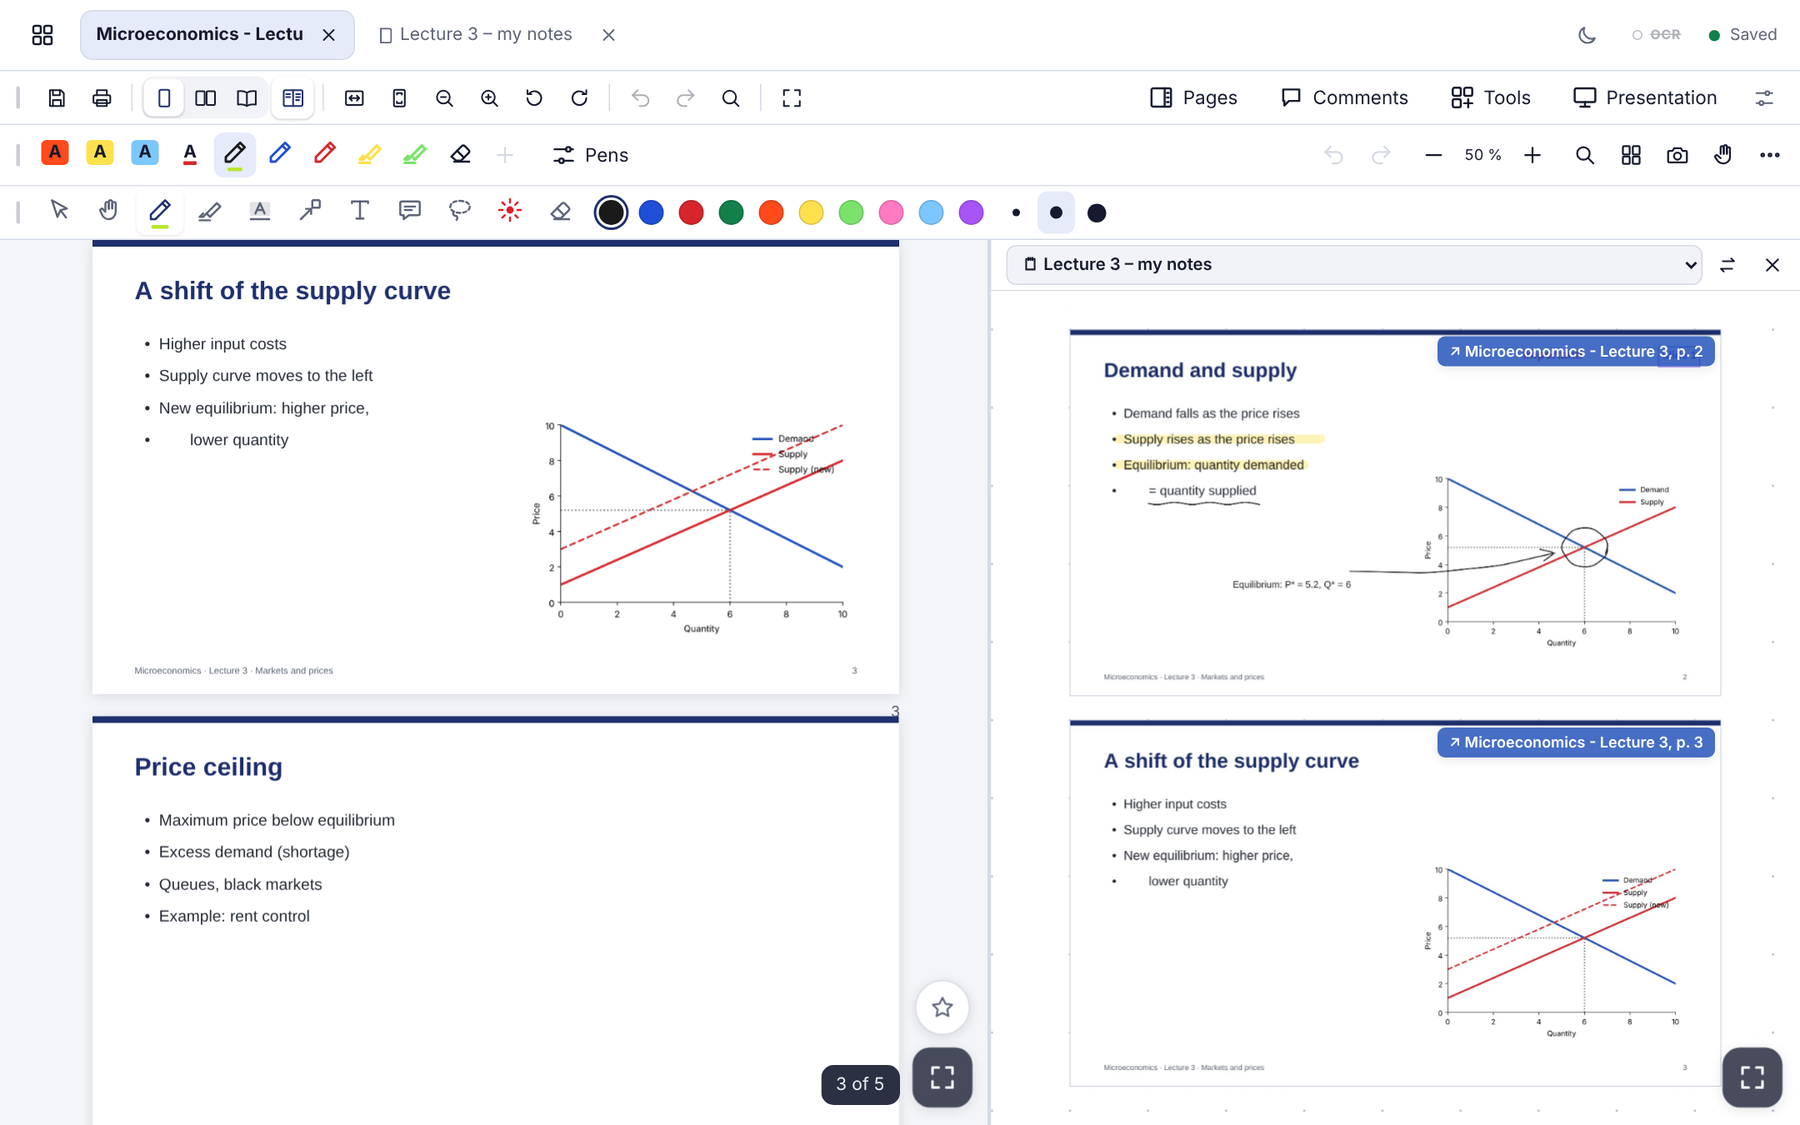
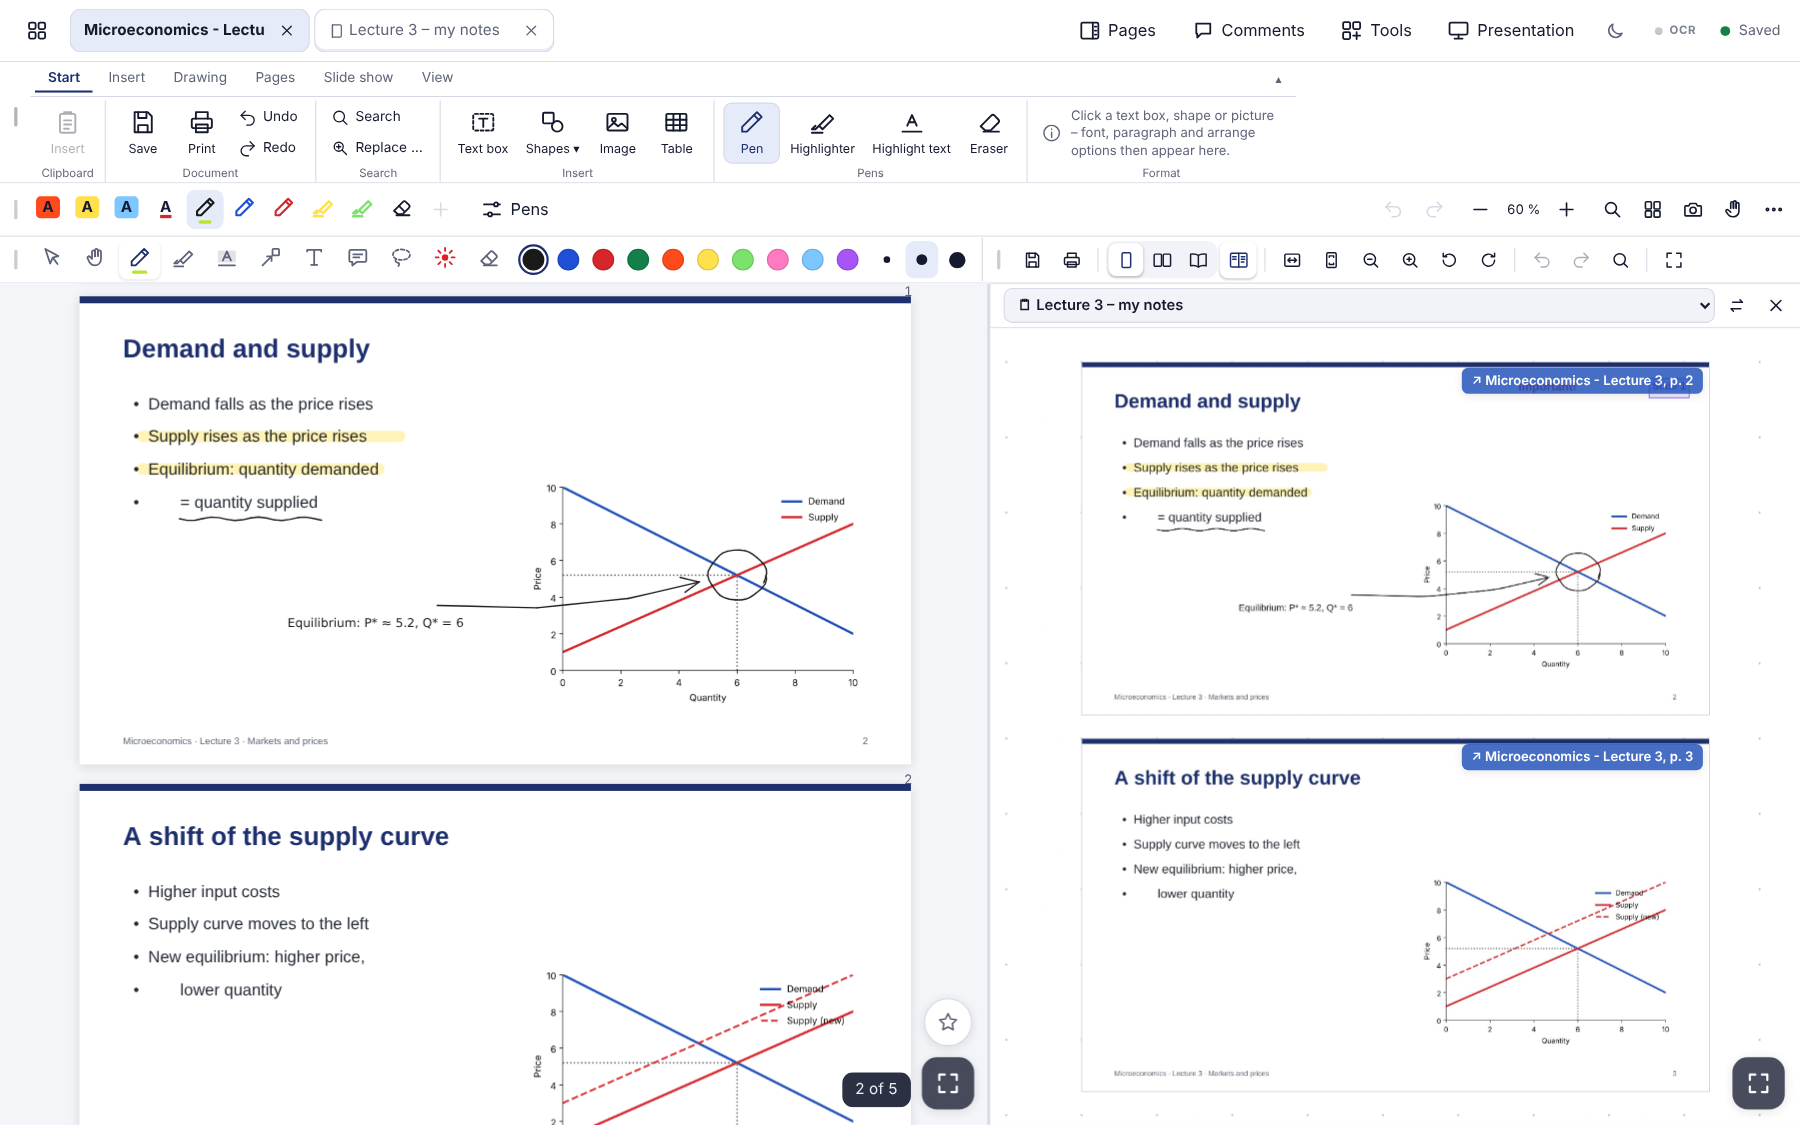
Version 1.2.30: New README text and screenshots (ribbon, presentations, PowerPoint import); charts without stray outlines, numbers in the UI language, ribbon labels capitalized

diff --git a/app/app/deck.js b/app/app/deck.js
@@ -431,7 +431,7 @@
     if (!hf || i < 0 || (hf.notFirst && i === 0)) return [];
     const out = [];
     const mk = (x, w, txt, al) => out.push({ id: 'hf' + x, t: 'text', x, y: H - 42, w, h: 32, fs: 14, c: '#868E96', pad: 4, va: 'm', html: `<div${al ? ` style="text-align: ${al};"` : ''}>${esc(txt)}</div>` });
-    if (hf.date) mk(40, 260, hf.dateText || new Date().toLocaleDateString('de-DE', { day: '2-digit', month: '2-digit', year: 'numeric' }), '');
+    if (hf.date) mk(40, 260, hf.dateText || new Date().toLocaleDateString(NUM_LOC, { day: '2-digit', month: '2-digit', year: 'numeric' }), '');
     if (hf.foot) mk(300, 360, hf.foot, 'center');
     if (hf.num) mk(660, 260, String(i + 1), 'right');
     return out;
@@ -535,7 +535,8 @@
   // ================================================================== Diagramme (Säulen, Balken, Linien, Kreis)
   const CHART_TYPES = [['col', 'Säulen'], ['bar', 'Balken'], ['line', 'Linien'], ['pie', 'Kreis']];
   const chartColors = (th) => [th.accent, '#E8590C', '#1B8A3A', '#D6409F', '#0091FF', '#B8E62E', '#7048E8', '#868E96', '#D6262B', '#1F4FD6'];
-  const fmtNum = (v) => (Math.abs(v) >= 1000 || Number.isInteger(v) ? Math.round(v).toLocaleString('de-DE') : (+v.toFixed(2)).toLocaleString('de-DE'));
+  const NUM_LOC = (document.documentElement.lang || 'de').slice(0, 2) === 'en' ? 'en-US' : 'de-DE';
+  const fmtNum = (v) => (Math.abs(v) >= 1000 || Number.isInteger(v) ? Math.round(v).toLocaleString(NUM_LOC) : (+v.toFixed(2)).toLocaleString(NUM_LOC));
   function niceTicks(min, max) {
     if (min === max) { max = min + 1; }
     const span = max - min, raw = span / 5, mag = Math.pow(10, Math.floor(Math.log10(raw))), f = raw / mag;
@@ -551,7 +552,7 @@
     // Farbe je Reihe (eigene aus PowerPoint, sonst die des Designs); beim Kreis je Stück
     const col = e.ct === 'pie' ? col0 : col0.map((c, i) => (ser[i] && ser[i].c) || c);
     while (e.ct !== 'pie' && col.length < ser.length) col.push((ser[col.length] && ser[col.length].c) || col0[col.length % col0.length]);
-    const fmtV = (v, axis) => (e.pct ? (+(v * 100).toFixed(axis ? 1 : e.dp != null ? Math.max(0, e.dp) : 1)).toLocaleString('de-DE') + ' %' : !axis && e.dp != null ? (+v).toLocaleString('de-DE', { minimumFractionDigits: e.dp, maximumFractionDigits: e.dp }) : fmtNum(v));
+    const fmtV = (v, axis) => (e.pct ? (+(v * 100).toFixed(axis ? 1 : e.dp != null ? Math.max(0, e.dp) : 1)).toLocaleString(NUM_LOC) + (NUM_LOC === 'en-US' ? '%' : ' %') : !axis && e.dp != null ? (+v).toLocaleString(NUM_LOC, { minimumFractionDigits: e.dp, maximumFractionDigits: e.dp }) : fmtNum(v));
     if (e.bg) P.push({ k: 'rect', x: 0, y: 0, w, h, fill: e.bg });
     const tw = (t, z = fs) => String(t).length * z * 0.55;
     let top = fs * 0.6, bottom = h - fs * 0.5;
@@ -603,7 +604,7 @@
     }
     const n = Math.max(1, labels.length), slot = (horiz ? ph : pw) / n;
     // zu viele Beschriftungen: nur jede k-te zeigen, damit nichts übereinanderliegt
-    const every = horiz ? Math.max(1, Math.ceil((fs * 1.1) / slot)) : Math.max(1, Math.ceil((Math.max(0, ...labels.map((t) => tw(t))) + fs * 0.4) / slot));
+    const every = horiz ? Math.max(1, Math.ceil((fs * 1.05) / slot)) : Math.max(1, Math.ceil((Math.max(0, ...labels.map((t) => tw(t))) * 0.85 + fs * 0.2) / slot));
     labels.forEach((t, i) => {
       if (i % every) return;
       if (horiz) P.push({ k: 'text', x: L - fs * 0.4, y: T + slot * (i + 0.5) + fs * 0.35, s: t, fs, a: 'end', c: fg });
@@ -642,7 +643,7 @@
       if (p.k === 'circle') return `<circle cx="${p.cx}" cy="${p.cy}" r="${p.r}" fill="${p.fill}"/>`;
       return `<text x="${p.x}" y="${p.y}" font-size="${p.fs}" text-anchor="${p.a}" fill="${p.c}"${p.b ? ' font-weight="700"' : ''}>${q(p.s)}</text>`;
     }).join('');
-    return `<svg viewBox="0 0 ${e.w} ${e.h}" width="${e.w}" height="${e.h}" style="width:${e.w}px;height:${e.h}px;max-width:none;overflow:visible">${body}</svg>`;
+    return `<svg viewBox="0 0 ${e.w} ${e.h}" width="${e.w}" height="${e.h}" style="width:${e.w}px;height:${e.h}px;max-width:none;overflow:visible;stroke:none;stroke-width:0">${body}</svg>`;
   }
   // kleines Fenster (eigene Dialoge der Präsentationen)
   function modal(title, html, okLabel) {
@@ -1098,7 +1099,7 @@
         return;
       }
       if (f === 'replace') { replaceDlg(); return; }
-      if (f === 'date') { insertChars(new Date().toLocaleDateString('de-DE', { day: '2-digit', month: '2-digit', year: 'numeric' })); return; }
+      if (f === 'date') { insertChars(new Date().toLocaleDateString(NUM_LOC, { day: '2-digit', month: '2-digit', year: 'numeric' })); return; }
       if (f === 'link') { linkDlg(); return; }
       if (f === 'chartdata') { if (ids[0]) openChart(ids[0]); return; }
       if (f === 'legend') { each((x) => { x.legend = x.legend === 0 ? 1 : 0; }); return; }
@@ -2405,7 +2406,7 @@
       if (!presenter) return;
       const el = (P.pauseAt || Date.now()) - P.t0 - P.paused, sec = Math.floor(el / 1000);
       ov.querySelector('.pr-timer').textContent = `${sec >= 3600 ? Math.floor(sec / 3600) + ':' : ''}${String(Math.floor(sec / 60) % 60).padStart(2, '0')}:${String(sec % 60).padStart(2, '0')}`;
-      ov.querySelector('.pr-clock').textContent = new Date().toLocaleTimeString('de-DE', { hour: '2-digit', minute: '2-digit' });
+      ov.querySelector('.pr-clock').textContent = new Date().toLocaleTimeString(NUM_LOC, { hour: '2-digit', minute: '2-digit' });
     }, 500);
     const onResize = () => { if (mounted) { mounted.wrap.remove(); mounted = null; draw(''); } };
     const end = () => {

diff --git a/app/app/deck.en.js b/app/app/deck.en.js
@@ -432,7 +432,7 @@
     if (!hf || i < 0 || (hf.notFirst && i === 0)) return [];
     const out = [];
     const mk = (x, w, txt, al) => out.push({ id: 'hf' + x, t: 'text', x, y: H - 42, w, h: 32, fs: 14, c: '#868E96', pad: 4, va: 'm', html: `<div${al ? ` style="text-align: ${al};"` : ''}>${esc(txt)}</div>` });
-    if (hf.date) mk(40, 260, hf.dateText || new Date().toLocaleDateString('de-DE', { day: '2-digit', month: '2-digit', year: 'numeric' }), '');
+    if (hf.date) mk(40, 260, hf.dateText || new Date().toLocaleDateString(NUM_LOC, { day: '2-digit', month: '2-digit', year: 'numeric' }), '');
     if (hf.foot) mk(300, 360, hf.foot, 'center');
     if (hf.num) mk(660, 260, String(i + 1), 'right');
     return out;
@@ -536,7 +536,8 @@
   // ================================================================== Diagramme (Säulen, Balken, Linien, Kreis)
   const CHART_TYPES = [['col', "Columns"], ['bar', "Bars"], ['line', "Lines"], ['pie', "Circle"]];
   const chartColors = (th) => [th.accent, '#E8590C', '#1B8A3A', '#D6409F', '#0091FF', '#B8E62E', '#7048E8', '#868E96', '#D6262B', '#1F4FD6'];
-  const fmtNum = (v) => (Math.abs(v) >= 1000 || Number.isInteger(v) ? Math.round(v).toLocaleString('de-DE') : (+v.toFixed(2)).toLocaleString('de-DE'));
+  const NUM_LOC = (document.documentElement.lang || 'de').slice(0, 2) === 'en' ? 'en-US' : 'de-DE';
+  const fmtNum = (v) => (Math.abs(v) >= 1000 || Number.isInteger(v) ? Math.round(v).toLocaleString(NUM_LOC) : (+v.toFixed(2)).toLocaleString(NUM_LOC));
   function niceTicks(min, max) {
     if (min === max) { max = min + 1; }
     const span = max - min, raw = span / 5, mag = Math.pow(10, Math.floor(Math.log10(raw))), f = raw / mag;
@@ -552,7 +553,7 @@
     // Farbe je Reihe (eigene aus PowerPoint, sonst die des Designs); beim Kreis je Stück
     const col = e.ct === 'pie' ? col0 : col0.map((c, i) => (ser[i] && ser[i].c) || c);
     while (e.ct !== 'pie' && col.length < ser.length) col.push((ser[col.length] && ser[col.length].c) || col0[col.length % col0.length]);
-    const fmtV = (v, axis) => (e.pct ? (+(v * 100).toFixed(axis ? 1 : e.dp != null ? Math.max(0, e.dp) : 1)).toLocaleString('de-DE') + ' %' : !axis && e.dp != null ? (+v).toLocaleString('de-DE', { minimumFractionDigits: e.dp, maximumFractionDigits: e.dp }) : fmtNum(v));
+    const fmtV = (v, axis) => (e.pct ? (+(v * 100).toFixed(axis ? 1 : e.dp != null ? Math.max(0, e.dp) : 1)).toLocaleString(NUM_LOC) + (NUM_LOC === 'en-US' ? '%' : ' %') : !axis && e.dp != null ? (+v).toLocaleString(NUM_LOC, { minimumFractionDigits: e.dp, maximumFractionDigits: e.dp }) : fmtNum(v));
     if (e.bg) P.push({ k: 'rect', x: 0, y: 0, w, h, fill: e.bg });
     const tw = (t, z = fs) => String(t).length * z * 0.55;
     let top = fs * 0.6, bottom = h - fs * 0.5;
@@ -604,7 +605,7 @@
     }
     const n = Math.max(1, labels.length), slot = (horiz ? ph : pw) / n;
     // zu viele Beschriftungen: nur jede k-te zeigen, damit nichts übereinanderliegt
-    const every = horiz ? Math.max(1, Math.ceil((fs * 1.1) / slot)) : Math.max(1, Math.ceil((Math.max(0, ...labels.map((t) => tw(t))) + fs * 0.4) / slot));
+    const every = horiz ? Math.max(1, Math.ceil((fs * 1.05) / slot)) : Math.max(1, Math.ceil((Math.max(0, ...labels.map((t) => tw(t))) * 0.85 + fs * 0.2) / slot));
     labels.forEach((t, i) => {
       if (i % every) return;
       if (horiz) P.push({ k: 'text', x: L - fs * 0.4, y: T + slot * (i + 0.5) + fs * 0.35, s: t, fs, a: 'end', c: fg });
@@ -643,7 +644,7 @@
       if (p.k === 'circle') return `<circle cx="${p.cx}" cy="${p.cy}" r="${p.r}" fill="${p.fill}"/>`;
       return `<text x="${p.x}" y="${p.y}" font-size="${p.fs}" text-anchor="${p.a}" fill="${p.c}"${p.b ? ' font-weight="700"' : ''}>${q(p.s)}</text>`;
     }).join('');
-    return `<svg viewBox="0 0 ${e.w} ${e.h}" width="${e.w}" height="${e.h}" style="width:${e.w}px;height:${e.h}px;max-width:none;overflow:visible">${body}</svg>`;
+    return `<svg viewBox="0 0 ${e.w} ${e.h}" width="${e.w}" height="${e.h}" style="width:${e.w}px;height:${e.h}px;max-width:none;overflow:visible;stroke:none;stroke-width:0">${body}</svg>`;
   }
   // kleines Fenster (eigene Dialoge der Präsentationen)
   function modal(title, html, okLabel) {
@@ -1099,7 +1100,7 @@
         return;
       }
       if (f === 'replace') { replaceDlg(); return; }
-      if (f === 'date') { insertChars(new Date().toLocaleDateString('de-DE', { day: '2-digit', month: '2-digit', year: 'numeric' })); return; }
+      if (f === 'date') { insertChars(new Date().toLocaleDateString(NUM_LOC, { day: '2-digit', month: '2-digit', year: 'numeric' })); return; }
       if (f === 'link') { linkDlg(); return; }
       if (f === 'chartdata') { if (ids[0]) openChart(ids[0]); return; }
       if (f === 'legend') { each((x) => { x.legend = x.legend === 0 ? 1 : 0; }); return; }
@@ -2406,7 +2407,7 @@
       if (!presenter) return;
       const el = (P.pauseAt || Date.now()) - P.t0 - P.paused, sec = Math.floor(el / 1000);
       ov.querySelector('.pr-timer').textContent = `${sec >= 3600 ? Math.floor(sec / 3600) + ':' : ''}${String(Math.floor(sec / 60) % 60).padStart(2, '0')}:${String(sec % 60).padStart(2, '0')}`;
-      ov.querySelector('.pr-clock').textContent = new Date().toLocaleTimeString('de-DE', { hour: '2-digit', minute: '2-digit' });
+      ov.querySelector('.pr-clock').textContent = new Date().toLocaleTimeString(NUM_LOC, { hour: '2-digit', minute: '2-digit' });
     }, 500);
     const onResize = () => { if (mounted) { mounted.wrap.remove(); mounted = null; draw(''); } };
     const end = () => {

diff --git a/app/app/app.css b/app/app/app.css
@@ -1528,3 +1528,6 @@ body.ob-placing .page { cursor: crosshair !important; }
 .pptx-report .dk-dlg-body { max-height: 60vh; }
 .pptx-report table { border-collapse: collapse; width: 100%; font-size: 13px; }
 .pptx-report td { padding: 4px 8px; border-bottom: 1px solid var(--line); vertical-align: top; }
+/* Menüband: Beschriftungen immer mit großem Anfangsbuchstaben (auch wenn die Übersetzung klein beginnt) */
+.rb-big > span { display: inline-block; }
+.rb-big > span::first-letter, .rb-tab::first-letter, .rb-cap::first-letter { text-transform: uppercase; }

diff --git a/app/app/app.en.js b/app/app/app.en.js
@@ -2,7 +2,7 @@
 /* PDF-Stift – PDFs mit dem Stift beschriften, automatisch speichern, offline weiterarbeiten. */
 'use strict';
 (() => {
-  const VERSION = '1.80.0';
+  const VERSION = '1.80.1';
   const API = 'api.php';
   const LOC = document.documentElement.lang === 'en' ? 'en-GB' : 'de-DE'; // Datums- und Zahlenformat der Sprache
   const DEC = LOC === 'de-DE' ? ',' : '.';

diff --git a/app/app/app.js b/app/app/app.js
@@ -1,7 +1,7 @@
 /* PDF-Stift – PDFs mit dem Stift beschriften, automatisch speichern, offline weiterarbeiten. */
 'use strict';
 (() => {
-  const VERSION = '1.80.0';
+  const VERSION = '1.80.1';
   const API = 'api.php';
   const LOC = document.documentElement.lang === 'en' ? 'en-GB' : 'de-DE'; // Datums- und Zahlenformat der Sprache
   const DEC = LOC === 'de-DE' ? ',' : '.';

diff --git a/app/sw.js b/app/sw.js
@@ -1,5 +1,5 @@
 /* PDF-Stift Service Worker: hält die App selbst offline bereit. PDFs und Notizen liegen in IndexedDB. */
-const VERSION = '1.80.0';
+const VERSION = '1.80.1';
 const CACHE = 'pdfstift-' + VERSION;
 const SHELL = [
   './',

diff --git a/app/lib/common.php b/app/lib/common.php
@@ -1,7 +1,7 @@
 <?php
 declare(strict_types=1);
 
-const PDFSTIFT_VERSION = '1.80.0';
+const PDFSTIFT_VERSION = '1.80.1';
 
 /**
  * Freie Ausgabe („local“): Die Windows-App startet einen eigenen kleinen PHP-Server nur für sich selbst.

diff --git a/README.de.md b/README.de.md
@@ -14,6 +14,8 @@ Alles bleibt auf Ihrem Gerät. Unter Windows und Linux braucht PDF-Stift kein Ko
 
 ![Folien links, Notizseite rechts – Folien einfach hinüberziehen](docs/screenshots/split.png)
 
+![Eine PowerPoint-Datei als bearbeitbare Präsentation](docs/screenshots/presentation.png)
+
 ## Was PDF-Stift kann
 
 - **Schreiben und markieren.** Stift, Marker, Text markieren, unterstreichen und durchstreichen, Formen, Textfelder, Notizzettel, Lasso, Radierer und ein Laserpointer für Präsentationen. Drucksensitive Stifte funktionieren auf Touchscreens und Grafiktabletts.
@@ -23,6 +25,8 @@ Alles bleibt auf Ihrem Gerät. Unter Windows und Linux braucht PDF-Stift kein Ko
 - **Scans aufbereiten.** Schiefe Seiten gerade richten, leere Seiten entfernen und den Kontrast verstärken.
 - **Passt zu Windows.** PDFs aus dem Explorer öffnen („In PDF-Stift öffnen“, „Senden an“), Word-, PowerPoint- und Excel-Dateien hineinziehen (umgewandelt mit Ihrem installierten Microsoft Office), aus jedem Programm auf den Drucker „PDF-Stift“ drucken, einen Ordner überwachen lassen und PDFs in den Explorer oder in eine E-Mail herausziehen.
 - **Notizbuch.** Seiten mit unendlicher Fläche, geordnet in Notizbüchern und Abschnitten. Folien samt Notizen mit einem Klick oder per Ziehen übernehmen, Seitenvorlagen (Cornell, Besprechung, Vorlesung), Suche in getipptem Text und übernommenen Folien, Verknüpfungen zwischen Notizen und PDFs, frühere Stände wiederherstellen, als PDF speichern oder drucken (auf A4 verteilt).
+- **Präsentationen.** Folien mit Text, Formen, Bildern, Tabellen und Diagrammen gestalten – oder PowerPoint-Dateien (`.pptx`, einzeln oder einen ganzen Ordner) als bearbeitbare Präsentationen öffnen, samt SmartArt, Formeln, Farbverläufen, Animationen und Übergängen. Vorführen, als PDF speichern oder wieder als PowerPoint-Datei speichern – die Animationen bleiben erhalten.
+- **Vertrautes Menüband.** Registerkarten Start, Einfügen, Zeichnen, Seiten, Bildschirmpräsentation und Ansicht wie in Office-Programmen. Menüband und Stiftleisten lassen sich an jeden Fensterrand andocken.
 - **Zwei Dokumente nebeneinander.** Folien links, Notizbuch oder eine zweite PDF rechts – mit einer gemeinsamen Werkzeugleiste.
 - **Präsentieren.** Referentenansicht für Beamer und Videokonferenz: Folie auf der Leinwand, nächste Folie, Stoppuhr und Sprechernotizen bei Ihnen.
 - **Deutsch und Englisch.** Umschalten unter Einstellungen → Sprache.

diff --git a/README.md b/README.md
@@ -19,6 +19,8 @@ Everything stays on your device. On Windows and Linux PDF-Stift needs no account
 - **Clean up scans.** Straighten skewed pages, remove blank pages and increase contrast.
 - **Fits into Windows.** Open PDFs from Explorer ("Open in PDF-Stift", "Send to"), drag Word, PowerPoint or Excel files in (converted with your installed Microsoft Office), print from any program to the "PDF-Stift" printer, watch a folder, and drag PDFs out into Explorer or an e-mail.
 - **Notebook.** Infinite-canvas pages for handwritten notes, organized in notebooks and sections. Copy slides (with your notes) onto a notebook page with one click or by dragging them across, use page templates (Cornell, meeting, lecture), search typed text and copied slides, link notes and PDFs both ways, restore earlier versions, and save or print a page as PDF (split onto A4 sheets).
+- **Presentations.** Build slides with text, shapes, pictures, tables and charts – or open PowerPoint files (`.pptx`, one at a time or a whole folder) as editable presentations, including SmartArt, formulas, gradients, animations and transitions. Present them, save them as PDF, or save them back as PowerPoint with the animations kept.
+- **Familiar ribbon.** Start, Insert, Drawing, Pages, Slide show and View tabs as in office programs. The ribbon and the pen bars can be docked to any edge of the window.
 - **Two documents side by side.** Slides on the left, notebook or a second PDF on the right – with one shared toolbar.
 - **Presenting.** Presenter view for a projector or video call: current slide on the big screen, next slide, timer and speaker notes on yours.
 - **English and German.** Switch under Settings → Language.
@@ -26,6 +28,8 @@ Everything stays on your device. On Windows and Linux PDF-Stift needs no account
 ![Slides copied into the notebook, with text snippets and slide markers](docs/screenshots/notebook.png)
 
 ![Slides on the left, your notebook page on the right – drag slides across](docs/screenshots/split.png)
+
+![A PowerPoint file opened as an editable presentation](docs/screenshots/presentation.png)
 
 ![All tools at a glance](docs/screenshots/tools.png)
 
